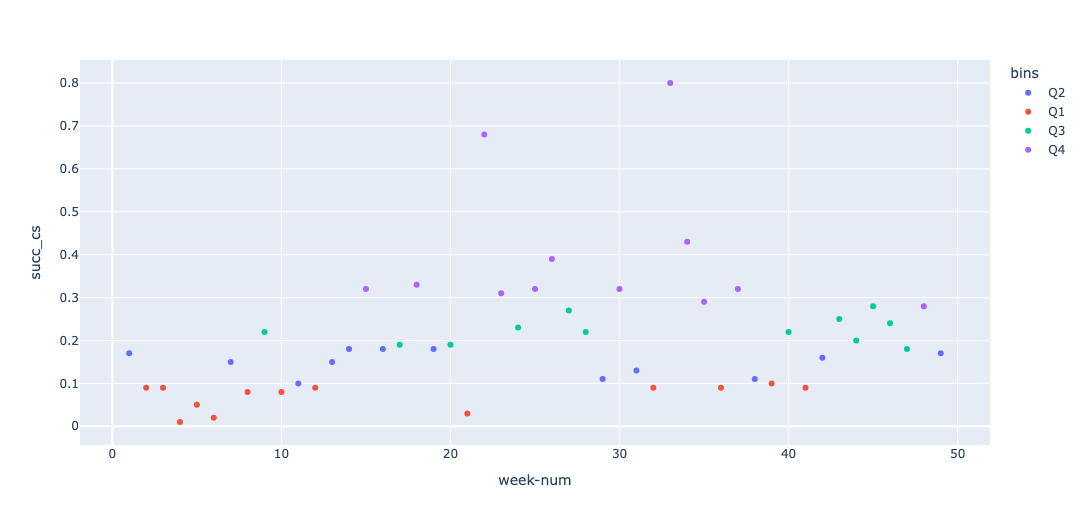
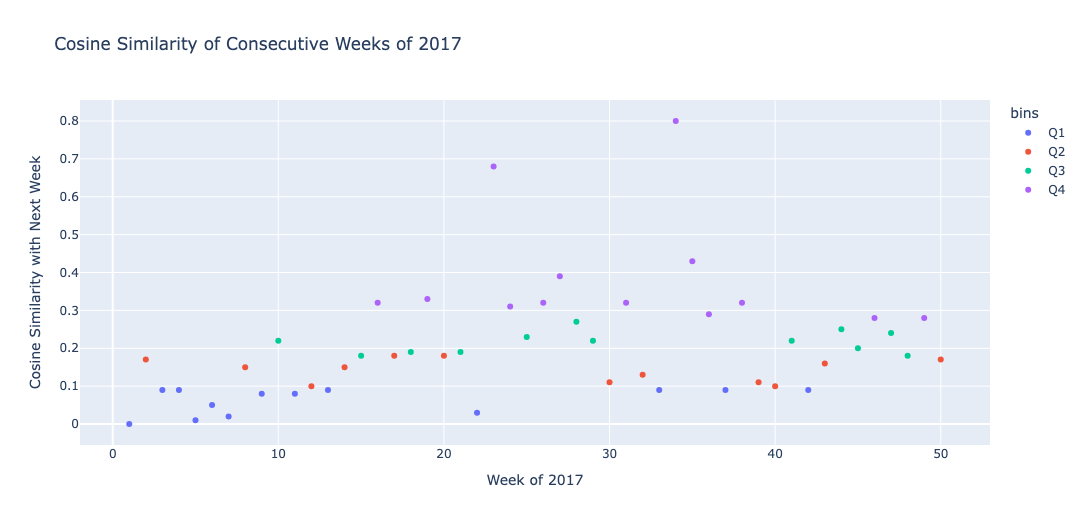
adding moving avg plots.

diff --git a/examples/olist_case_study/picture_summary_SP_2017.md b/examples/olist_case_study/picture_summary_SP_2017.md
@@ -25,7 +25,10 @@ Cosine similarity is a metric used to quantify how similar two non-zero vectors 
 
 ![weekly cosine similarity](../../images/cs_2017_SP_succ_weeks.png)
 
-The cosine similarity of the succesive weekly orders in SP during 2017 was low in the first quarter. Most weeks had cosine similarity in the first quartile. It picks up in the second quarter and remains high for the rest of the year. This is a behavioral insight from the similarity analysis. It suggests that the purchasing behavior in SP was more consistent and stable in the second half of the year compared to the first half. This could be due to various factors such as seasonal trends, marketing campaigns, or changes in consumer preferences.
+The cosine similarity of the succesive weekly orders in SP during 2017 was low in the first quarter. Most weeks had cosine similarity in the first quartile. It picks up in the second quarter and moves in cycles. A moving average plot best brings out the cycles.
+
+![monthly moving average of cosine similarity between weekly orders](../../images/monthly_MA_CS.png)
+
 
 **code**:
 [cs_analysis_prod_purch_2017.ipynb](../../notebooks/cs_analysis_prod_purch_2017.ipynb)
